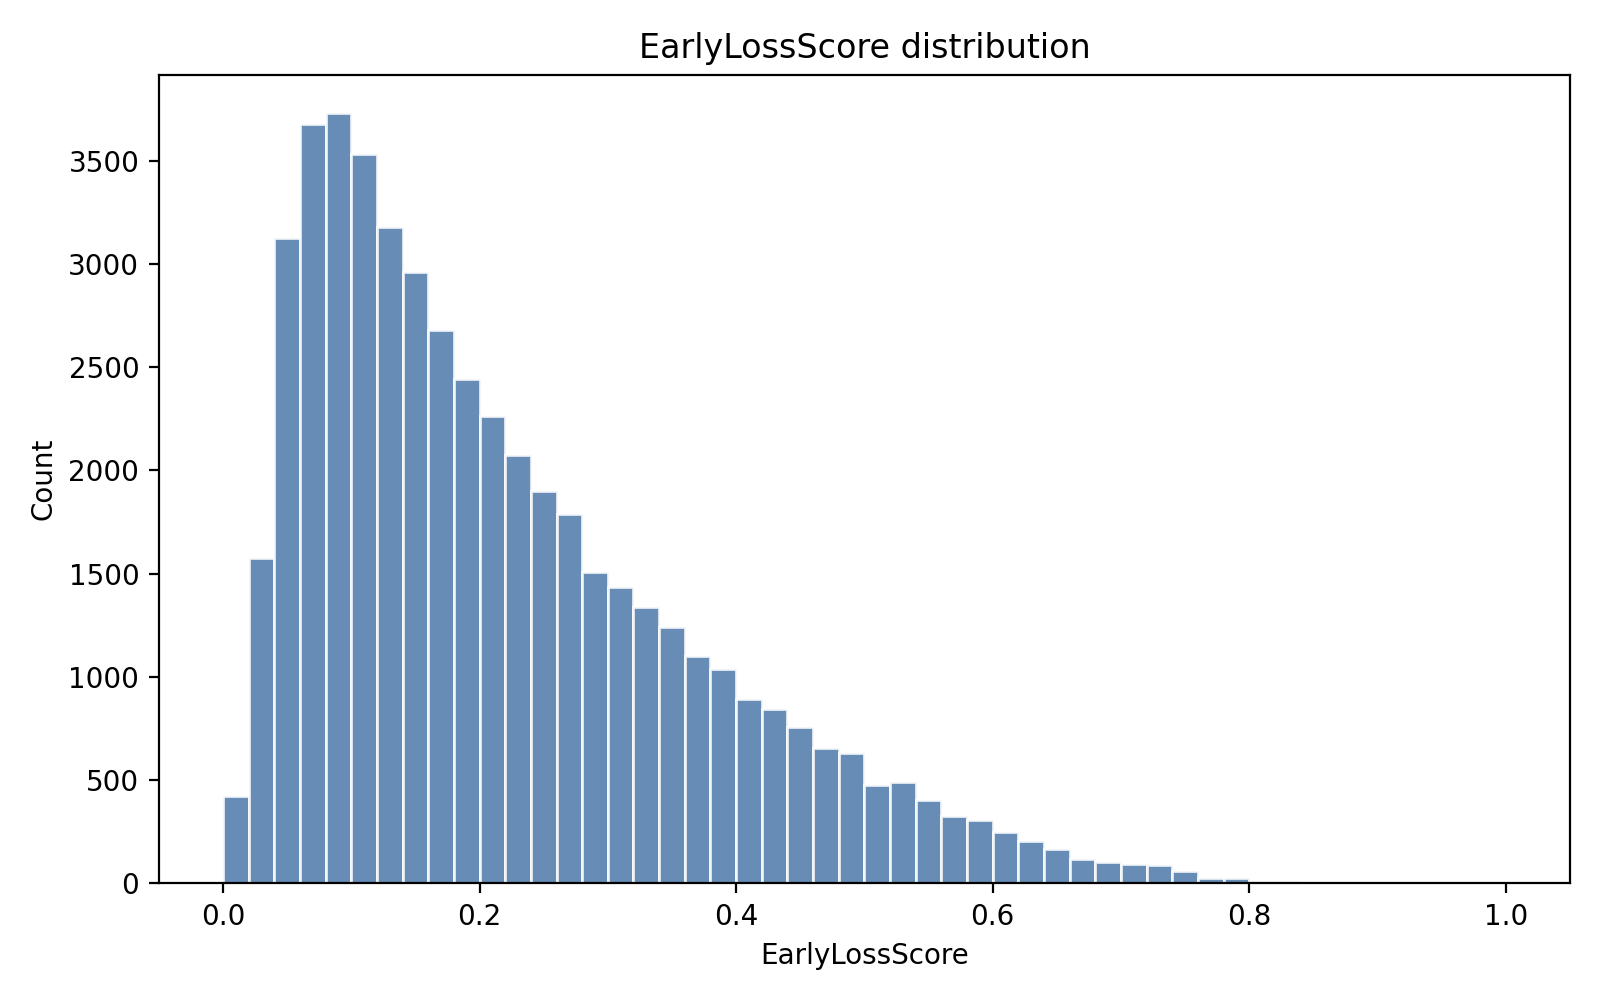
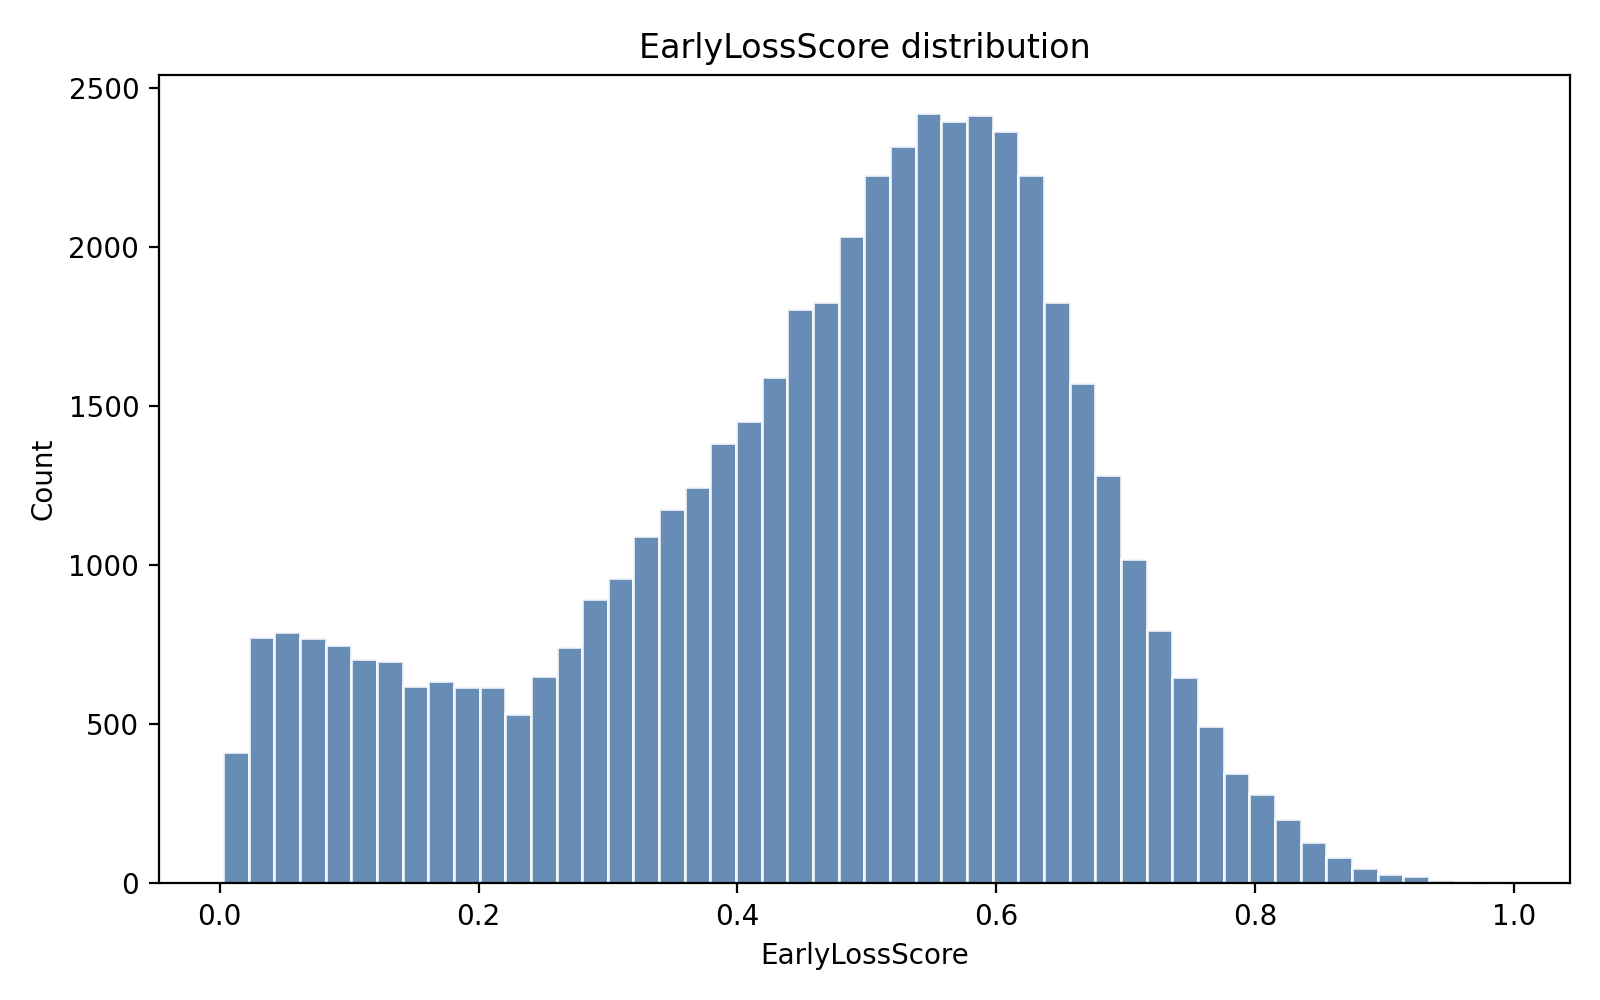
xxx

diff --git a/weights/EarlyLossScore.py b/weights/EarlyLossScore.py
@@ -14,6 +14,10 @@ class EarlyLossResult:
 
     scores: np.ndarray
     early_loss: np.ndarray
+    level: np.ndarray
+    progress: np.ndarray
+    raw_score: np.ndarray
+    standardized_score: np.ndarray
     labels: Optional[np.ndarray]
     indices: np.ndarray
     early_epochs: int
@@ -22,9 +26,22 @@ class EarlyLossResult:
 class EarlyLossScore:
     """Compute EarlyLossScore from proxy training logs (.npz)."""
 
-    def __init__(self, npz_path: str | Path, early_epochs: int | None = None) -> None:
+    def __init__(
+        self,
+        npz_path: str | Path,
+        early_epochs: int | None = None,
+        *,
+        alpha: float = 1.0,
+        beta: float = 1.0,
+        tau: float = 2.0,
+        eps: float = 1e-6,
+    ) -> None:
         self.npz_path = Path(npz_path)
         self.early_epochs = early_epochs
+        self.alpha = float(alpha)
+        self.beta = float(beta)
+        self.tau = float(tau)
+        self.eps = float(eps)
 
     def _resolve_early_epochs(self, num_epochs: int) -> int:
         if num_epochs <= 0:
@@ -37,12 +54,14 @@ class EarlyLossScore:
         return max(1, min(10, default_epochs))
 
     @staticmethod
-    def _min_max_normalize(values: np.ndarray) -> np.ndarray:
-        min_val = float(values.min())
-        max_val = float(values.max())
-        if np.isclose(max_val, min_val):
-            return np.zeros_like(values, dtype=np.float32)
-        return ((values - min_val) / (max_val - min_val)).astype(np.float32)
+    def _stable_sigmoid(values: np.ndarray) -> np.ndarray:
+        positive = values >= 0
+        negative = ~positive
+        result = np.empty_like(values, dtype=np.float32)
+        result[positive] = 1.0 / (1.0 + np.exp(-values[positive]))
+        exp_vals = np.exp(values[negative])
+        result[negative] = exp_vals / (1.0 + exp_vals)
+        return result
 
     def compute(self) -> EarlyLossResult:
         data = np.load(self.npz_path)
@@ -57,20 +76,40 @@ class EarlyLossScore:
 
         early_epochs = self._resolve_early_epochs(losses.shape[0])
         early_losses = np.log1p(losses[:early_epochs])
-        early_mean = early_losses.mean(axis=0)
-        scores = self._min_max_normalize(early_mean)
+        medians = np.median(early_losses, axis=1, keepdims=True)
+        mads = np.median(np.abs(early_losses - medians), axis=1, keepdims=True)
+        z_scores = (early_losses - medians) / (mads + self.eps)
+
+        level = z_scores.mean(axis=0)
+        if early_epochs == 1:
+            progress = np.zeros_like(level)
+        else:
+            progress = z_scores[0, :] - z_scores[-1, :]
+
+        raw_score = self.alpha * level + self.beta * progress
+        raw_median = np.median(raw_score)
+        raw_mad = np.median(np.abs(raw_score - raw_median))
+        standardized = (raw_score - raw_median) / (raw_mad + self.eps)
+        scores = self._stable_sigmoid(standardized / self.tau)
 
         if not np.array_equal(indices, np.arange(len(indices))):
             order = np.argsort(indices)
             scores = scores[order]
-            early_mean = early_mean[order]
+            raw_score = raw_score[order]
+            standardized = standardized[order]
+            level = level[order]
+            progress = progress[order]
             indices = indices[order]
             if labels is not None:
                 labels = labels[order]
 
         return EarlyLossResult(
             scores=scores,
-            early_loss=early_mean,
+            early_loss=raw_score,
+            level=level,
+            progress=progress,
+            raw_score=raw_score,
+            standardized_score=standardized,
             labels=labels,
             indices=indices,
             early_epochs=early_epochs,
